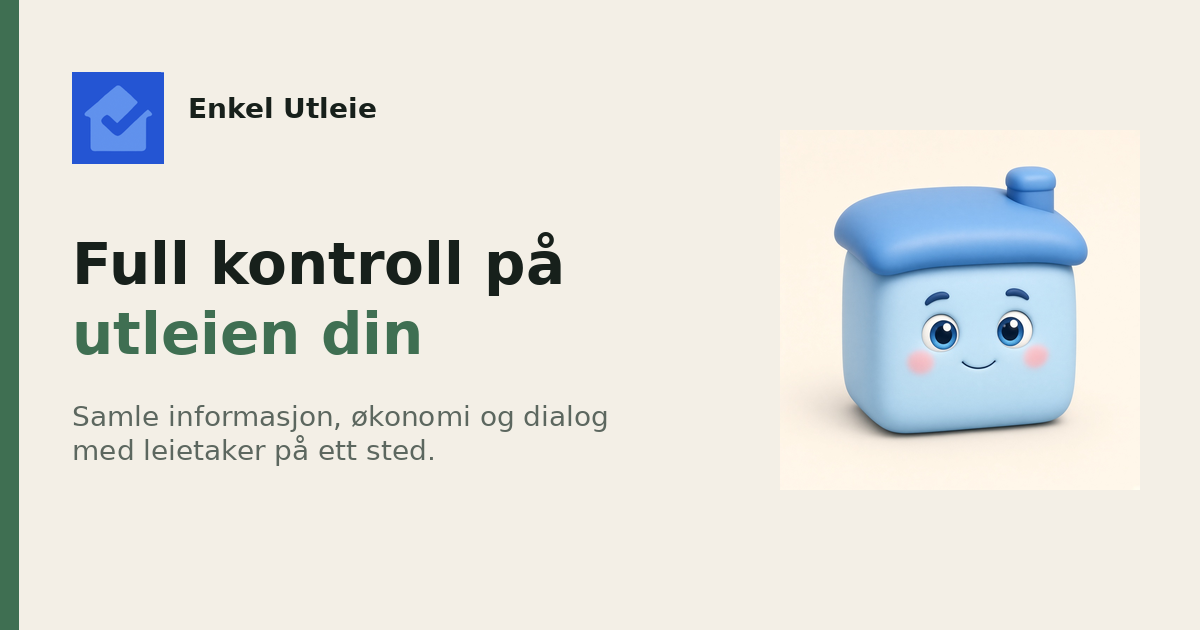
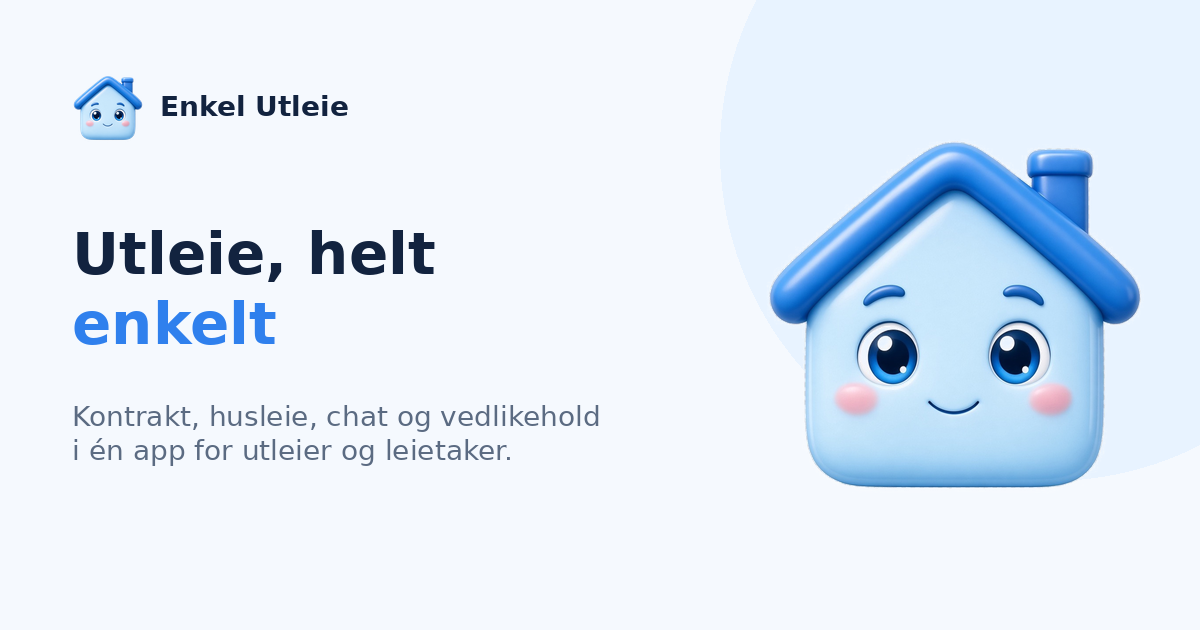
Bytt til nye hus-logoer (vanlig + happy) (#6)
Erstatt kube-huset og SVG-wrapperne med de to kanoniske PNG-maskotene:
house-mascot.png (åpne øyne) og house-mascot-happy.png. Header, footer,
favicon, apple-touch og OG peker på det nye paret.

diff --git a/index.html b/index.html
@@ -13,10 +13,14 @@
     <meta property="og:url" content="https://enkelutleie.com/" />
     <meta property="og:locale" content="nb_NO" />
     <meta property="og:site_name" content="Enkel Utleie" />
-    <meta property="og:image" content="https://enkelutleie.com/brand/oversikt-staging.png" />
+    <meta property="og:image" content="https://enkelutleie.com/og-image.png" />
+    <meta property="og:image:type" content="image/png" />
+    <meta property="og:image:width" content="1200" />
+    <meta property="og:image:height" content="630" />
     <meta name="twitter:card" content="summary_large_image" />
-    <link rel="icon" href="/brand/house-mascot.png" type="image/png" />
-    <link rel="apple-touch-icon" href="/brand/house-mascot.png" />
+    <meta name="twitter:image" content="https://enkelutleie.com/og-image.png" />
+    <link rel="icon" href="/favicon.png" type="image/png" />
+    <link rel="apple-touch-icon" href="/apple-touch-icon.png" />
     <link rel="manifest" href="/site.webmanifest" />
     <link rel="stylesheet" href="/src/styles.css" />
   </head>
@@ -83,7 +87,10 @@
       </section>
     </main>
     <footer class="site-footer wrap">
-      <p>MK Product Development AS</p>
+      <p class="footer-brand">
+        <img class="footer-mascot" src="/brand/house-mascot.png" width="40" height="40" alt="" />
+        MK Product Development AS
+      </p>
       <p><a href="/personvern">Personvern</a> · <a href="mailto:hei@enkelutleie.com">hei@enkelutleie.com</a></p>
     </footer>
     <script type="module" src="/src/main.js"></script>

diff --git a/404.html b/404.html
@@ -6,7 +6,8 @@
     <title>Siden finnes ikke — Enkel Utleie</title>
     <meta name="robots" content="noindex" />
     <meta name="theme-color" content="#2F80ED" />
-    <link rel="icon" href="/brand/house-mascot.png" type="image/png" />
+    <link rel="icon" href="/favicon.png" type="image/png" />
+    <link rel="apple-touch-icon" href="/apple-touch-icon.png" />
     <link rel="stylesheet" href="/src/styles.css" />
   </head>
   <body>
@@ -20,7 +21,7 @@
       </div>
     </header>
     <main class="wrap page-missing">
-      <img class="hero-mascot" src="/brand/house-mascot.png" alt="" width="88" height="88" />
+      <img class="hero-mascot" src="/brand/house-mascot-happy.png" alt="" width="88" height="88" />
       <h1>Siden finnes ikke</h1>
       <p class="lead">Gå tilbake til forsiden.</p>
       <a class="btn" href="/">Til forsiden</a>

diff --git a/src/styles.css b/src/styles.css
@@ -47,10 +47,14 @@ a { color: var(--blue-deep); }
   display: inline-flex; align-items: center; gap: 0.55rem;
   color: var(--ink); text-decoration: none; font-weight: 650; letter-spacing: -0.03em;
 }
-.brand-mark, .hero-mascot {
-  display: block; flex: none; object-fit: contain; background: none; border-radius: 22%;
+.brand-mark, .hero-mascot, .footer-mascot {
+  display: block; flex: none; object-fit: contain; background: none;
 }
 .brand-mark { width: 2.35rem; height: 2.35rem; }
+.footer-brand {
+  display: inline-flex; align-items: center; gap: 0.5rem;
+}
+.footer-mascot { width: 1.7rem; height: 1.7rem; }
 .nav { display: none; margin-left: auto; margin-right: 0.35rem; }
 .nav a { color: var(--muted); text-decoration: none; font-weight: 560; font-size: 0.95rem; }
 .nav a:hover { color: var(--ink); }

diff --git a/personvern/index.html b/personvern/index.html
@@ -10,7 +10,8 @@
     />
     <link rel="canonical" href="https://enkelutleie.com/personvern" />
     <meta name="theme-color" content="#2F80ED" />
-    <link rel="icon" href="/favicon.svg" type="image/svg+xml" />
+    <link rel="icon" href="/favicon.png" type="image/png" />
+    <link rel="apple-touch-icon" href="/apple-touch-icon.png" />
     <link rel="stylesheet" href="/src/styles.css" />
   </head>
   <body>

diff --git a/src/mascot.css b/src/mascot.css
@@ -1,6 +1,15 @@
 .brand-mark,
-.hero-mascot {
+.hero-mascot,
+.footer-mascot {
   display: block;
   object-fit: contain;
   background: none;
+}
+
+@media (hover: hover) and (prefers-reduced-motion: no-preference) {
+  .brand:hover .brand-mark,
+  .hero-mascot:hover,
+  .footer-brand:hover .footer-mascot {
+    content: url("/brand/house-mascot-happy.png");
+  }
 }

diff --git a/scripts/generate-og-image.py b/scripts/generate-og-image.py
@@ -1,5 +1,5 @@
 #!/usr/bin/env python3
-"""Compose a 1200x630 Open Graph image from the real brand PNGs."""
+"""Compose a 1200x630 Open Graph image from the canonical house mascot."""
 
 from __future__ import annotations
 
@@ -10,15 +10,16 @@ from PIL import Image, ImageDraw, ImageFont
 ROOT = Path(__file__).resolve().parent.parent
 PUBLIC = ROOT / "public"
 WIDTH, HEIGHT = 1200, 630
-LINEN = (243, 239, 230)
-INK = (23, 32, 27)
-MOSS = (63, 111, 82)
-MUTED = (92, 103, 95)
+SKY = (232, 243, 255)
+PAPER = (245, 249, 254)
+INK = (18, 35, 63)
+NAVY = (27, 58, 107)
+BLUE = (47, 128, 237)
+MUTED = (91, 107, 130)
 
 
 def load(path: Path) -> Image.Image:
-    image = Image.open(path).convert("RGBA")
-    return image
+    return Image.open(path).convert("RGBA")
 
 
 def fit(image: Image.Image, size: int) -> Image.Image:
@@ -28,15 +29,13 @@ def fit(image: Image.Image, size: int) -> Image.Image:
 
 
 def main() -> None:
-    canvas = Image.new("RGB", (WIDTH, HEIGHT), LINEN)
+    canvas = Image.new("RGB", (WIDTH, HEIGHT), PAPER)
     draw = ImageDraw.Draw(canvas)
-    draw.rectangle((0, 0, 18, HEIGHT), fill=MOSS)
+    draw.rectangle((0, 0, WIDTH, HEIGHT), fill=PAPER)
+    draw.ellipse((720, -180, 1380, 480), fill=SKY)
 
-    logo = fit(load(PUBLIC / "brand" / "enkel-utleie-logo.png"), 92)
-    mascot = fit(load(PUBLIC / "brand" / "house-mascot.png"), 360)
-
-    canvas.paste(logo, (72, 72), logo)
-    canvas.paste(mascot, (780, 130), mascot)
+    mascot = fit(load(PUBLIC / "brand" / "house-mascot.png"), 390)
+    canvas.paste(mascot, (760, 120), mascot)
 
     try:
         font_title = ImageFont.truetype(
@@ -51,19 +50,21 @@ def main() -> None:
     except OSError:
         font_title = font_body = font_brand = ImageFont.load_default()
 
-    draw.text((188, 92), "Enkel Utleie", font=font_brand, fill=INK)
-    draw.text((72, 230), "Full kontroll på", font=font_title, fill=INK)
-    draw.text((72, 300), "utleien din", font=font_title, fill=MOSS)
+    mark = fit(load(PUBLIC / "brand" / "house-mascot.png"), 72)
+    canvas.paste(mark, (72, 72), mark)
+    draw.text((160, 90), "Enkel Utleie", font=font_brand, fill=INK)
+    draw.text((72, 220), "Utleie, helt", font=font_title, fill=INK)
+    draw.text((72, 290), "enkelt", font=font_title, fill=BLUE)
     draw.text(
         (72, 400),
-        "Samle informasjon, økonomi og dialog\nmed leietaker på ett sted.",
+        "Kontrakt, husleie, chat og vedlikehold\ni én app for utleier og leietaker.",
         font=font_body,
         fill=MUTED,
         spacing=8,
     )
 
     out = PUBLIC / "og-image.png"
-    canvas.save(out, "PNG", optimize=True)
+    canvas.save(out, "PNG")
     print(f"Wrote {out} ({out.stat().st_size} bytes)")
 
 

diff --git a/README.md b/README.md
@@ -57,7 +57,7 @@ Dette domenet skal **ikke** hoste Apple Universal Links / AASA. Det ligger på `
 ## Innhold
 
 - Markedsside i samme visuelle språk som iOS-appen: hus-maskot, `#2F80ED` / `#1B3A6B` / `#E8F3FF`, hvite kort
-- App-ikon og hus-maskot i `public/brand/` (header, footer, CTA, favicon og OG)
+- Hus-maskot i `public/brand/` (og `brand-assets/`): `house-mascot.png` (åpne øyne) og `house-mascot-happy.png` (smileøyne). Header, footer, hero, favicon, apple-touch og OG bruker dette paret — ikke SVG-tegninger eller gamle kube-hus.
 - Ekte Staging-skjermbilde av Oversikt i iPhone-rammen på forsiden
 - Egne kort for utleier og leietaker
 - Personvernstub under `/personvern` (MK Product Development AS, `hei@enkelutleie.com`)
